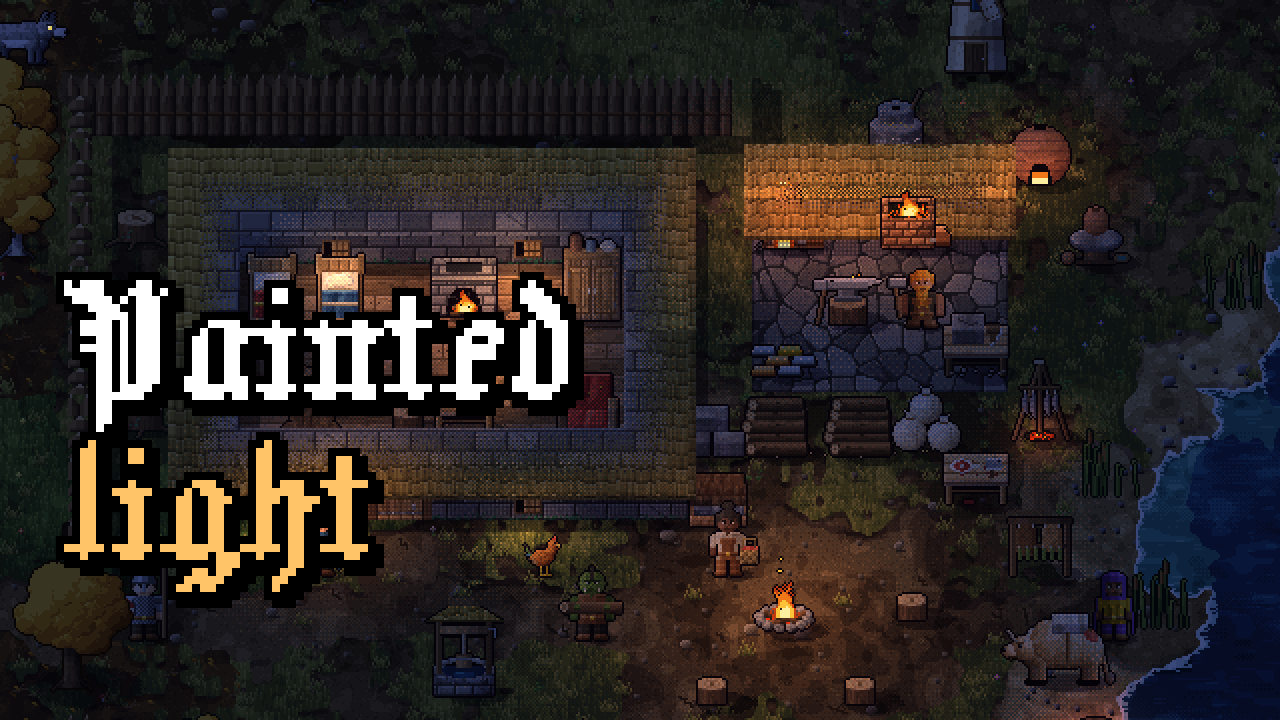
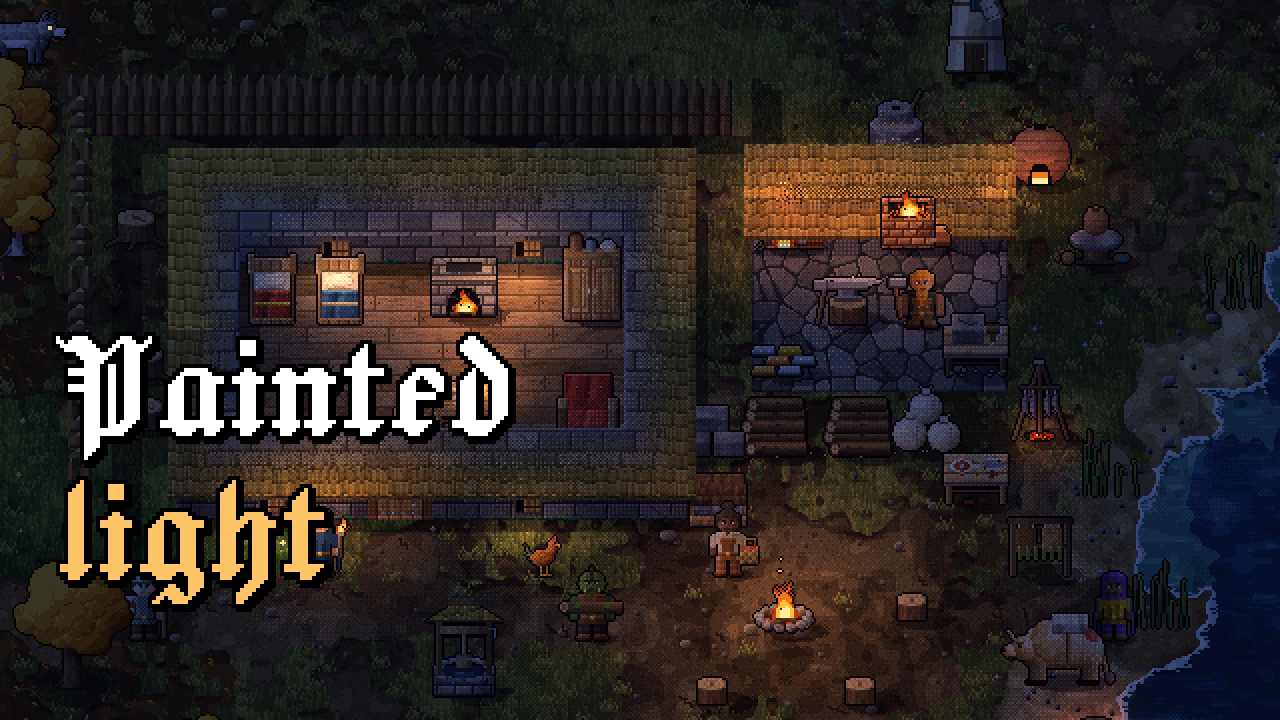
fix(mockups): devlog thumbnail text at each pixel font's one-pixel size
- thumb.html draws Jersey20 at 34 px and Jacquard24 at 43 px, where one font pixel is one canvas pixel, so stems keep even widths; 40, 20 and 24 px had distorted U, 0 and P.
- check-pixels.mjs fails any text canvas drawn at another size than its font's one-pixel size.
- The magic thumbnail starts past the spearman instead of cutting him at the left edge.
- The 0:20 recording box asks for 48 px tiles, matching the before captures.

Claude-Session: fd651184-30eb-4ba8-8156-b7f2333e9b98
T3-Thread: thread:delegated-task:command%3Amcp%3A642574c5-c48d-4129-95f8-0240b33dcd81%3Adelegate-task%3A54f1a387-9600-4650-bbef-a1982770efbf

Changed region(s): [[0.0312, 0.3667, 0.4688, 0.8556]]

diff --git a/mockups/devlog-render/thumb.html b/mockups/devlog-render/thumb.html
@@ -20,17 +20,17 @@ html, body { margin: 0; background: #000; }
   <div class="clip" style="left:0;width:640px"><img class="art" src="src/old-glyph.png" style="left:-304px;top:-48px;width:1280px;height:1088px" alt=""></div>
   <div class="clip" style="left:640px;width:640px"><img class="art" src="src/new-day.png" style="left:-1120px;top:-480px;width:3840px;height:2176px" alt=""></div>
   <div class="seam"></div>
-  <canvas class="ov txt" data-font="Jersey20" data-size="40" data-k="3" data-x="40" data-y="32" data-lines='[[["UGLY","#ffffff"]]]'></canvas>
-  <canvas class="ov txt" data-font="Jersey20" data-size="40" data-k="3" data-right="40" data-y="32" data-lines='[[["5 DAYS","#ffc468"]]]'></canvas>
+  <canvas class="ov txt" data-font="Jersey20" data-size="34" data-k="5" data-x="40" data-y="32" data-lines='[[["UGLY","#ffffff"]]]'></canvas>
+  <canvas class="ov txt" data-font="Jersey20" data-size="34" data-k="5" data-right="40" data-y="32" data-lines='[[["5 DAYS","#ffc468"]]]'></canvas>
   <canvas class="ov arrow" width="56" height="26" style="left:416px;top:488px;width:448px;height:208px"></canvas>
 </section>
 <section class="th" id="night">
   <div class="clip" style="left:0;width:1280px"><img class="art" src="src/new-night.png" style="left:-1040px;top:-440px;width:3840px;height:2176px" alt=""></div>
-  <canvas class="ov txt" data-font="Blackletter" data-size="24" data-k="8" data-x="48" data-bottom="48" data-lh="20" data-lines='[[["Painted","#ffffff"]],[["light","#ffc468"]]]'></canvas>
+  <canvas class="ov txt" data-font="Blackletter" data-size="43" data-k="4" data-x="48" data-bottom="48" data-lh="36" data-lines='[[["Painted","#ffffff"]],[["light","#ffc468"]]]'></canvas>
 </section>
 <section class="th" id="magic">
-  <div class="clip" style="left:0;width:1280px"><img class="art" src="src/magic.png" style="left:-750px;top:-1236px;width:4764px;height:2964px" alt=""></div>
-  <canvas class="ov txt" data-font="Jersey20" data-size="20" data-k="7" data-x="49" data-y="49" data-lh="18" data-lines='[[["301","#ffffff"]],[["commits","#b0dc80"]]]'></canvas>
+  <div class="clip" style="left:0;width:1280px"><img class="art" src="src/magic.png" style="left:-795px;top:-1236px;width:4764px;height:2964px" alt=""></div>
+  <canvas class="ov txt" data-font="Jersey20" data-size="34" data-k="4" data-x="48" data-y="48" data-lh="31" data-lines='[[["301","#ffffff"]],[["commits","#b0dc80"]]]'></canvas>
 </section>
 <script>
 const id = new URLSearchParams(location.search).get('t') || 'split';

diff --git a/mockups/devlog-render/index.html b/mockups/devlog-render/index.html
@@ -144,7 +144,7 @@ a { color: var(--cool); }
 <div class="timeline">
   <div class="beat act"><div class="bt">Act 1 · The confession (0:00–1:50)</div></div>
   <div class="beat"><div class="tc">0:00</div><div class="ba"><figure><img src="img/glyph-before.png" alt=""><figcaption>dev glyphs</figcaption></figure><figure><img src="img/grass-after.png" alt=""><figcaption>now</figcaption></figure></div><div><div class="bt">Cold open: the wipe</div><div class="bd">Five-second slow wipe, before to after, no music until the seam crosses. Then the hook line (see script).</div></div></div>
-  <div class="beat"><div class="tc">0:20</div><div class="todo">needs recording: dev-branch glyph renderer, 20 s slow pan over the dev-save colony at noon, 32 px tiles, HUD hidden</div><div><div class="bt">What it looked like</div><div class="bd">The glyph map <code>dev</code> still draws by default: one colour per Bitlands glyph, no ground between them.</div></div></div>
+  <div class="beat"><div class="tc">0:20</div><div class="todo">needs recording: dev-branch glyph renderer, 20 s slow pan over the dev-save colony at noon, 48 px tiles, HUD hidden</div><div><div class="bt">What it looked like</div><div class="bd">The glyph map <code>dev</code> still draws by default: one colour per Bitlands glyph, no ground between them.</div></div></div>
   <div class="beat"><div class="tc">0:55</div><div class="ba"><figure><img src="img/glyph-before.png" alt=""><figcaption>dev glyphs</figcaption></figure><figure><img src="img/map-day.png" alt=""><figcaption>now</figcaption></figure></div><div><div class="bt">The rule I set myself</div><div class="bd">The mockups already looked right; the game didn't. Port the mockup, pixel for pixel, or don't ship it. Every feature in the next 10 minutes was held to a mockup.</div></div></div>
 
   <div class="beat act"><div class="bt">Act 2 · Ground (1:50–4:10)</div></div>
